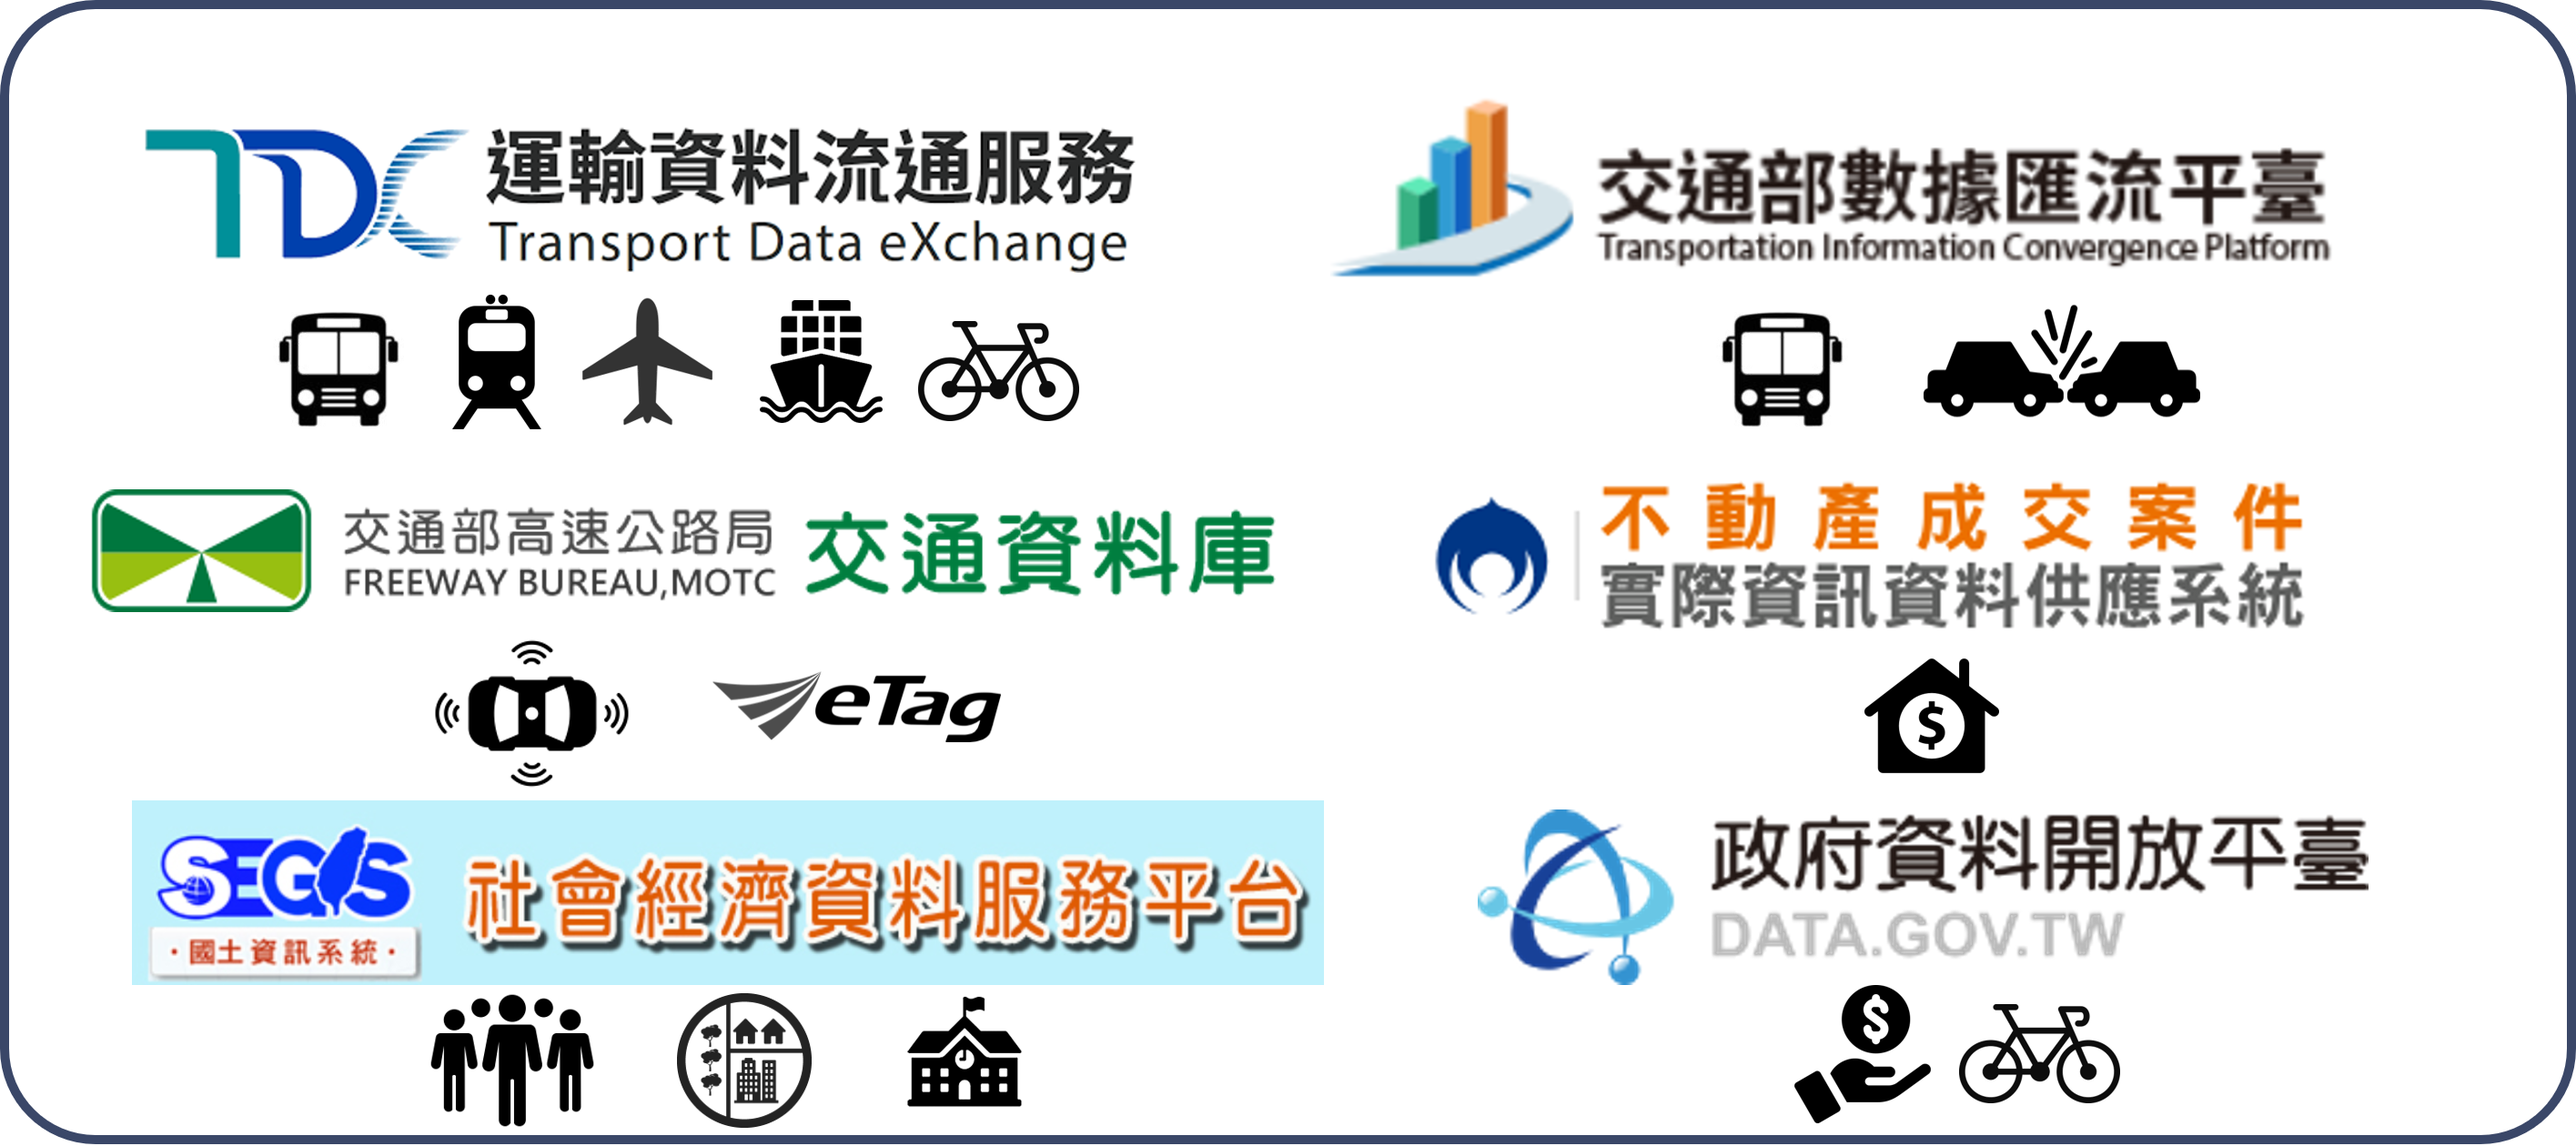
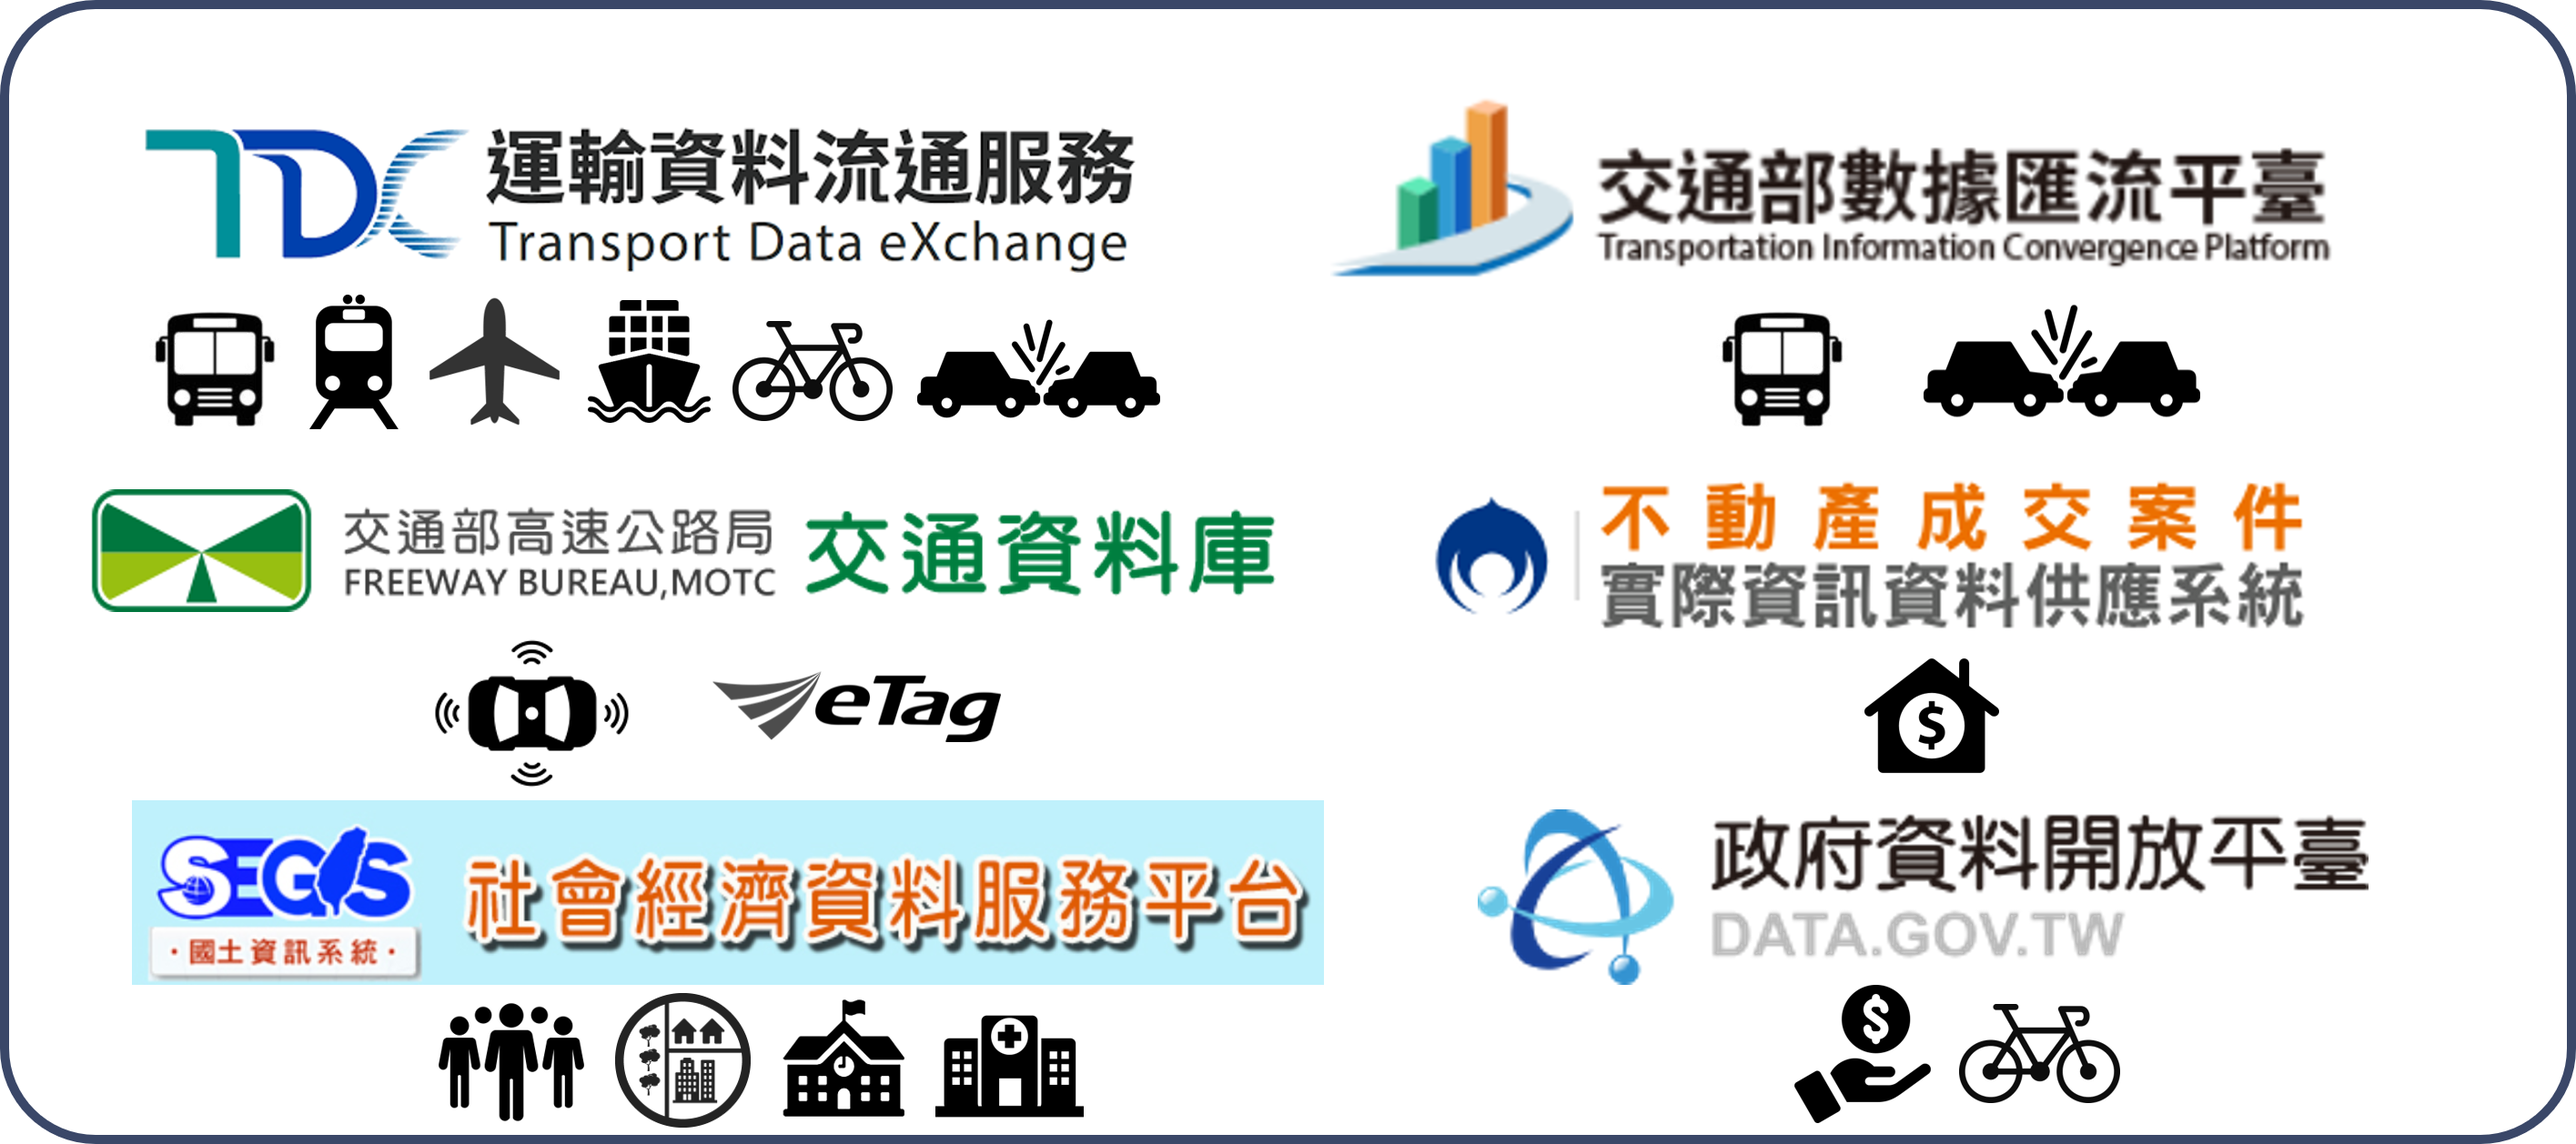
Initial commit

diff --git a/docs/index.html b/docs/index.html
@@ -243,13 +243,13 @@ M.S.: Department of Transportation and Logistics Management, NYCU</em></p>
 <div id="常見運輸資料平臺" class="section level2 hasAnchor" number="1.1">
 <h2><span class="header-section-number">1.1</span> 常見運輸資料平臺<a href="index.html#常見運輸資料平臺" class="anchor-section" aria-label="Anchor link to header"></a></h2>
 <p><span style="font-size:15pt;text-decoration:underline"><strong>運輸資料流通服務平臺</strong></span><br />
-<a href="https://tdx.transportdata.tw/">運輸資料流通服務平臺（Transport Data eXchange, TDX）</a>係透過 Open API 建立運輸領域開放資料服務，並將大部分運輸資料整合為一，以利使用者自單一介面尋找各類型運輸資料，其中包括公共運輸、路況資訊、停車資訊、觀光資訊、GIS 圖資、道路編碼、地理編碼等服務。其中公共運輸資料所涵蓋運具泛及軌道運輸（臺鐵、高鐵、捷運、輕軌）、公車（公路客運、市區公車）、公共自行車、航空、航運等。平臺上主要可分為動態資料與靜態資料，靜態資料係指更新週期較長的資料，如時刻表、線型等，而動態資料則是指短時間內定時更新的即時資料，諸如運具即時位置、即時運具剩餘數量等。本套件的大部分函式皆來自此一平臺，除可介接最新資料外，亦可下載特定歷史時間的資料。</p>
+<a href="https://tdx.transportdata.tw/">運輸資料流通服務平臺（Transport Data eXchange, TDX）</a>係透過 Open API 建立運輸領域開放資料服務，並將大部分運輸資料整合為一，以利使用者自單一介面尋找各類型運輸資料，其中包括公共運輸、路況資訊、停車資訊、觀光資訊、GIS 圖資、道路編碼、地理編碼、事故資料等服務。其中公共運輸資料所涵蓋運具泛及軌道運輸（臺鐵、高鐵、捷運、輕軌）、公車（公路客運、市區公車）、公共自行車、航空、航運等。平臺上主要可分為動態資料與靜態資料，靜態資料係指更新週期較長的資料，如時刻表、線型等，而動態資料則是指短時間內定時更新的即時資料，諸如運具即時位置、即時運具剩餘數量等。本套件的大部分函式皆來自此一平臺，除可介接最新資料外，亦可下載特定歷史時間的資料。</p>
 <p><span style="font-size:15pt;text-decoration:underline"><strong>交通部數據匯流平臺</strong></span><br />
-<a href="https://ticp.motc.gov.tw/ConvergeProj/index">交通部數據匯流平臺</a>主要提供歷史運輸資料，惟此平臺下載資料的方式並非透過 Open Data 標準介面，而是直接自官網中申請資料，待平臺管理單位審核通過後即可下載。須注意的是，若欲申請此一平臺的資料必須先行註冊會員。故本套件無法直接介接該平臺的資料，請務必至網站申請與下載。此一平臺含括旅運資料、營運資料、安全資料等。旅運資料係指公共運輸站點、路線、歷史即時位置等，以及公路車輛偵測器、電子標籤（eTag）等資料，此資料現已轉移至 TDX 介接，並可透過本套件的函式取得該歷史資料。營運資料則是指公共運輸各站分時資料、電子票證資料、站點起訖對統計資料等。安全資料則為交通事故 A1、A2 的表一與表二資料。惟須注意，營運資料、安全資料除線上申請外，尚須撰寫書面申請資料摘要（如：研究計畫、應用程式開發計畫），以及書面申請使用表，並將兩份文件寄送至交通部數據匯流平臺予以審查。申請資料摘要範例請<a href="https://github.com/ChiaJung-Yeh/TDX_Guide/raw/master/documents/%E4%BA%A4%E9%80%9A%E9%83%A8%E4%BA%A4%E9%80%9A%E6%95%B8%E6%93%9A%E8%B3%87%E6%96%99%E7%94%B3%E8%AB%8B%E4%BD%BF%E7%94%A8%E8%A1%A8%E7%AF%84%E4%BE%8B.xlsx">點此</a>；申請使用表範例請<a href="https://github.com/ChiaJung-Yeh/TDX_Guide/raw/master/documents/%E7%94%B3%E8%AB%8B%E8%B3%87%E6%96%99%E6%91%98%E8%A6%81%E7%AF%84%E4%BE%8B.docx">點此</a>。</p>
+<a href="https://ticp.motc.gov.tw/ConvergeProj/index">交通部數據匯流平臺</a>主要提供歷史運輸資料，惟此平臺下載資料的方式並非透過 Open Data 標準介面，而是直接自官網中申請資料，待平臺管理單位審核通過後即可下載。須注意的是，若欲申請此一平臺的資料必須先行註冊會員。故本套件無法直接介接該平臺的資料，請務必至網站申請與下載。此一平臺含括旅運資料、營運資料、安全資料等。旅運資料係指公共運輸站點、路線、歷史即時位置等，以及公路車輛偵測器、電子標籤（eTag）等資料，此資料現已轉移至 TDX 介接，並可透過本套件的函式取得該歷史資料。營運資料則是指公共運輸各站分時資料、電子票證資料、站點起訖對統計資料等。安全資料則為交通事故 A1、A2 的表一與表二資料，現亦可直接於 TDX 介接。惟須注意，營運資料、安全資料除線上申請外，尚須撰寫書面申請資料摘要（如：研究計畫、應用程式開發計畫），以及書面申請使用表，並將兩份文件寄送至交通部數據匯流平臺予以審查。申請資料摘要範例請<a href="https://github.com/ChiaJung-Yeh/TDX_Guide/raw/master/documents/%E4%BA%A4%E9%80%9A%E9%83%A8%E4%BA%A4%E9%80%9A%E6%95%B8%E6%93%9A%E8%B3%87%E6%96%99%E7%94%B3%E8%AB%8B%E4%BD%BF%E7%94%A8%E8%A1%A8%E7%AF%84%E4%BE%8B.xlsx">點此</a>；申請使用表範例請<a href="https://github.com/ChiaJung-Yeh/TDX_Guide/raw/master/documents/%E7%94%B3%E8%AB%8B%E8%B3%87%E6%96%99%E6%91%98%E8%A6%81%E7%AF%84%E4%BE%8B.docx">點此</a>。</p>
 <p><span style="font-size:15pt;text-decoration:underline"><strong>高公局交通資料庫</strong></span><br />
 <a href="https://tisvcloud.freeway.gov.tw/">高公局交通資料庫</a>提供高速公路偵測器（VD）、電子收費系統（eTag）、路段線型圖資等資料，其中包括即時資料與歷史資料。其中eTag資料含括：各類車種通行量統計各類車種（M03A）、站間各車種中位數旅行時間（M04A）、站間各車種中位數行駛車速（M05A）、各旅次路徑原始資料（M06A）、各類車種旅次平均長度（M07A）和各類車種旅次數量（M08A）。此外，在介接或分析資料前，建議可參考<a href="https://tisvcloud.freeway.gov.tw/documents/TDCS%E4%BD%BF%E7%94%A8%E6%89%8B%E5%86%8Av34.pdf">交通資料蒐集資源系統 資料使用手冊</a>與<a href="https://drive.google.com/file/d/12GzEhuiZa7yJc5zFGVEn8U9UJR22RrGy/view">即時路況資料標準</a>，以利正確使用之。</p>
 <p><span style="font-size:15pt;text-decoration:underline"><strong>社會經濟資料服務平臺</strong></span><br />
-<a href="https://segis.moi.gov.tw/STAT/Web/Portal/STAT_PortalHome.aspx">社會經濟資料服務平臺</a>提供各層級行政區（縣市/鄉鎮市區/村里）的社經資料，涵蓋人口、勞動就業、土地營建、教育文化、醫療衛生、產業等社會各面向之資料。本套件中自該平臺介接人口與住宅普查資料、土地使用資料、全臺各級學校資料。</p>
+<a href="https://segis.moi.gov.tw/STAT/Web/Portal/STAT_PortalHome.aspx">社會經濟資料服務平臺</a>提供各層級行政區（縣市/鄉鎮市區/村里）的社經資料，涵蓋人口、勞動就業、土地營建、教育文化、醫療衛生、產業等社會各面向之資料。本套件中自該平臺介接人口與住宅普查資料、土地使用資料、全臺各級學校資料、醫療院所統計資料、工商服務業統計資料。</p>
 <p><span style="font-size:15pt;text-decoration:underline"><strong>政府資料開放平臺</strong></span><br />
 <a href="https://data.gov.tw/">政府資料開放平臺</a>涵蓋面向為所有資料庫中最廣者，泛及生育、婚姻、職業、投票、交通等。本套件於該平臺介接全臺村里所得資料、臺北市 YouBike 租借紀錄資料。</p>
 <p><span style="font-size:15pt;text-decoration:underline"><strong>不動產成交案件資料供應系統</strong></span><br />
